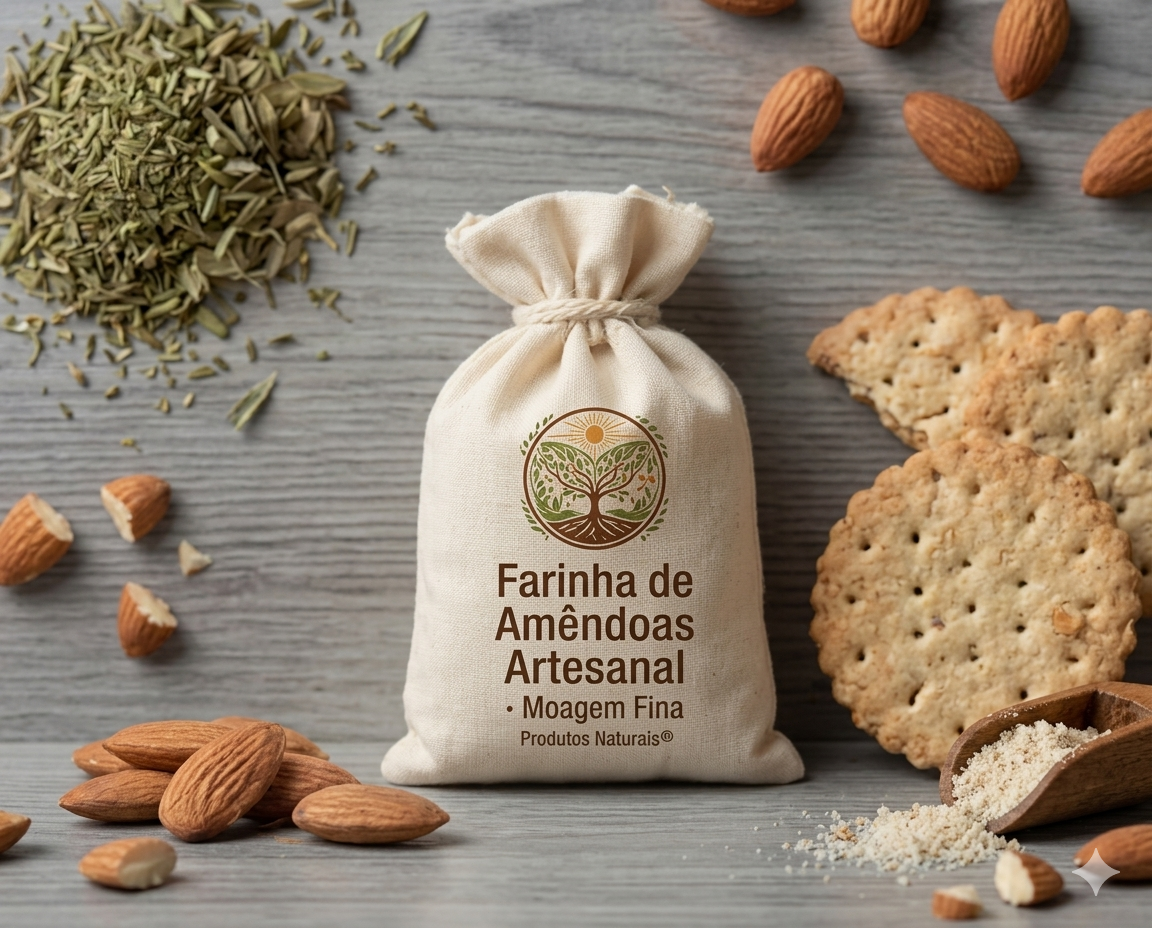
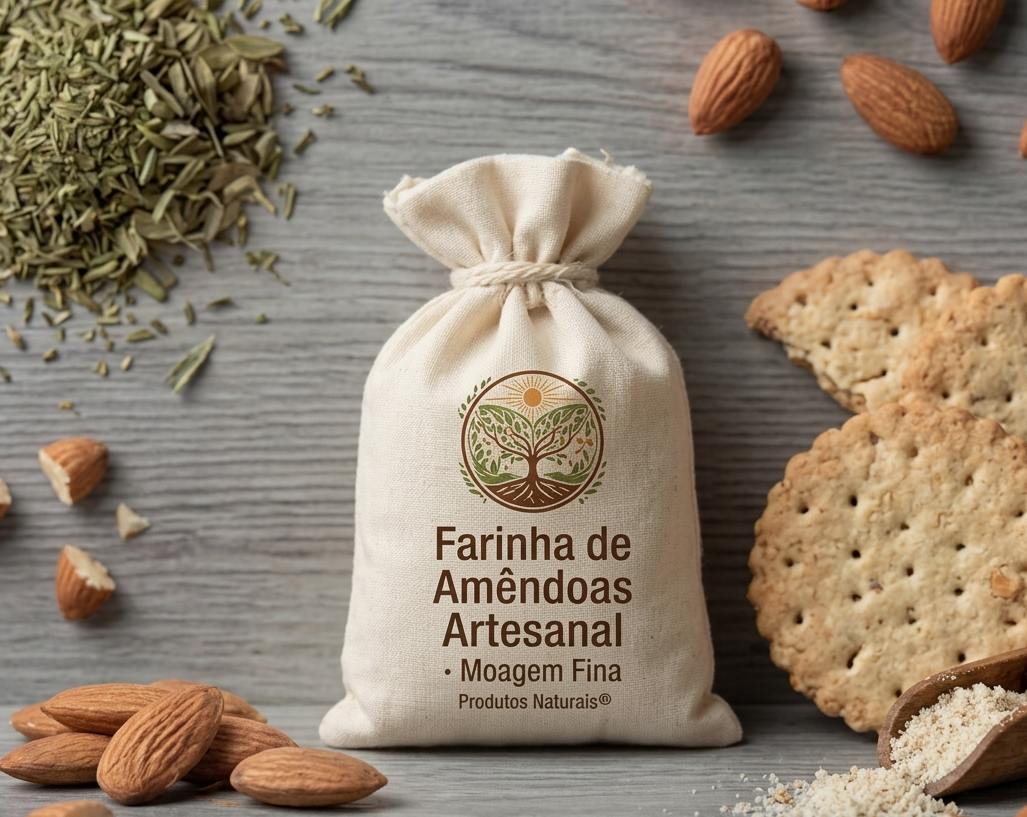
Carrossel aulaCores em produção

diff --git a/aulaCores/home.html b/aulaCores/home.html
@@ -4,6 +4,7 @@
     <meta charset="UTF-8">
     <meta name="viewport" content="width=device-width, initial-scale=1.0">
     <link rel="stylesheet" href="style.css">
+    <link rel="stylesheet" href="carrossel.css">
     <title>Sabores da Terra</title>
 </head>
 <body>
@@ -25,64 +26,84 @@
 
         
         <main>
-            <section>
+
+            <section >
                 <h2>Os melhores produtos orgânicos</h2>
-                <div id="produtos">
-                    <figure class="maior" tabindex="0">
-                        <img src="/aulaCores/imgs/nozes.png" alt="Pacote de Nozes 'Energia da Terra'">
-                        <figcaption>Nozes "Energia da Terra"</figcaption>
+                <div class="carrossel">
+                    <ul class="itensCarrossel">
+                    <li class="produtos">
+                        <figure class="maior" tabindex="0">
+                            <img src="/aulaCores/imgs/nozes.png" alt="Pacote de Nozes 'Energia da Terra'">
+                            <figcaption>Nozes "Energia da Terra"</figcaption>
 
-                        <div class="butao">
-                            <a href="#">
-                              <p>Comprar!</p>  
-                            </a>
-                        </div>
-                    </figure>
+                            <div class="butao">
+                                <a href="#">
+                                <p>Comprar!</p>  
+                                </a>
+                            </div>
+                        </figure>
+                    </li>
 
-                    <figure class="maior" tabindex="0">
-                        <img src="/aulaCores/imgs/mel.png" alt="Pote de Mel Orgânico">
-                        <figcaption> Mel Orgânico de Florada Silvestre</figcaption>
+                    <li class="produtos">
+                        <figure class="maior" tabindex="0">
+                            <img src="/aulaCores/imgs/mel.png" alt="Pote de Mel Orgânico">
+                            <figcaption> Mel Orgânico de Florada Silvestre</figcaption>
 
-                        <div class="butao">
-                            <a href="#">
-                              <p>Comprar!</p>  
-                            </a>
-                        </div>
-                        
-                    </figure>
+                            <div class="butao">
+                                <a href="#">
+                                <p>Comprar!</p>  
+                                </a>
+                            </div>
+                            
+                        </figure>
+                    </li>
 
-                    <figure class="maior" tabindex="0">
-                        <img src="./imgs/ervas.png" alt="Pacote de Ervas 'Brisa do Pomar'">
-                        <figcaption>Infusão de Ervas "Brisa do Pomar"</figcaption>
+                    <li class="produtos">
+                        <figure class="maior" tabindex="0">
+                            <img src="./imgs/ervas.png" alt="Pacote de Ervas 'Brisa do Pomar'">
+                            <figcaption>Infusão de Ervas "Brisa do Pomar"</figcaption>
 
-                        <div class="butao">
-                            <a href="#">
-                              <p>Comprar!</p>  
-                            </a>
-                        </div>
-                    </figure>
+                            <div class="butao">
+                                <a href="#">
+                                <p>Comprar!</p>  
+                                </a>
+                            </div>
+                        </figure>
+                    </li>
 
-                    <figure class="maior" tabindex="0">
-                        <img src="./imgs/azeite.png" alt="Frasco de azeite de oliva extra virgem prensado a frio" class="vertical">
-                        <figcaption>Azeite de Oliva Extra Virgem Prensado a Frio</figcaption>
+                    <li class="produtos">
+                        <figure class="maior" tabindex="0">
+                            <img src="./imgs/azeite.png" alt="Frasco de azeite de oliva extra virgem prensado a frio" class="vertical">
+                            <figcaption>Azeite de Oliva Extra Virgem Prensado a Frio</figcaption>
 
-                        <div class="butao">
-                            <a href="#">
-                              <p>Comprar!</p>  
-                            </a>
-                        </div>
-                    </figure>
+                            <div class="butao">
+                                <a href="#">
+                                <p>Comprar!</p>  
+                                </a>
+                            </div>
+                        </figure>
+                    </li>
 
-                    <figure class="maior" tabindex="0">
-                        <img src="./imgs/farinha.png" alt="Pacote de Farinha de Amêndoas Integral" class="vertical">
-                        <figcaption>Farinha de Amêndoas Integral</figcaption>
+                    <li class="produtos">
+                        <figure class="maior" tabindex="0">
+                            <img src="./imgs/farinha.png" alt="Pacote de Farinha de Amêndoas Integral" class="vertical">
+                            <figcaption>Farinha de Amêndoas Integral</figcaption>
 
-                        <div class="butao">
-                            <a href="#">
-                              <p>Comprar!</p>  
-                            </a>
-                        </div>
-                    </figure> 
+                            <div class="butao">
+                                <a href="#">
+                                <p>Comprar!</p>  
+                                </a>
+                            </div>
+                        </figure> 
+                    </li>
+                    </ul>
+
+                    <button class="butaoCarrossel" id="esquerda">&#10094</button>
+                    <button class="butaoCarrossel" id="direita">&#10095</button>
+                    
+                </div>
+                
+
             </section>
 
             <aside >
@@ -111,3 +132,4 @@
     
 </body>
 </html>
+

diff --git a/aulaCores/carrossel.css b/aulaCores/carrossel.css
@@ -1,0 +1,37 @@
+
+.carrossel{
+    max-width:100%;
+    overflow: hidden;
+    anchor-name: --carrossel;
+}
+.itensCarrossel{
+    display: flex;
+    transition: transform 0.5s ease-in-out;
+}
+
+.itensCarrossel .produtos{
+    object-fit: contain;
+    display: block
+}
+
+.butaoCarrossel{
+    position:fixed;
+    position-anchor: --carrossel;
+    position-area: center end;
+    width: 35px;
+    height: 35px;
+    border-radius: 50%;
+    border: none;
+    background: white;
+    font-size: 20pt;
+    cursor: pointer;
+    transition: background-color 0.2s ease-in-out;
+}
+
+#esquerda{
+    position-area: center start;
+}
+
+.butaoCarrossel:hover{
+    background-color: rgba(255, 255, 255, 0.637);
+}

diff --git a/aulaCores/script.js b/aulaCores/script.js
@@ -1,0 +1,19 @@
+const slide = document.querySelector(".itensCarrossel");
+const produtos = document.querySelector(".produtos li");
+const btnEsq = document.querySelector("#esquerda");
+const btnDir = document.querySelector("#direita");
+
+let index = 0;
+
+function mostrarProduto(){
+    produtos.computedStyleMap.transform = `translateX(${-index * 100})`;
+}
+
+btnDir.addEventListener('click', ()=>{
+    index = (index + 1) % imagens.length;
+    mostrarProduto();
+});
+btnEsq.addEventListener('click', ()=>{
+    index = (index + 1) % imagens.length;
+    mostrarProduto();
+});

diff --git a/aulaCores/style.css b/aulaCores/style.css
@@ -106,7 +106,7 @@ h2{
 
 
 
-#produtos{
+.produtos{
     display: flex;
     justify-content: center;
     flex-wrap: wrap;
@@ -115,6 +115,7 @@ h2{
 
 figure{
     width: 380px;
+    height: 400px;
     border: solid 2px rgba(0, 56, 0, 0.445);
     padding-bottom: 10px;
     margin: 1%;
@@ -152,12 +153,13 @@ figure{
 
 figure img{
     width: 100%;
+    height: 300px;
 }
 
 figcaption{
     font-family: "fofy";
     color: rgb(0, 66, 0);
-    font-size: 14pt;
+    font-size: 12pt;
     padding-top: 1%;
 }
 
@@ -181,7 +183,7 @@ p{
     color: rgb(0, 48, 0);
 }
 
-#produtor{
+.produtor{
     width: 90%;
     margin-bottom: 3%;
 }